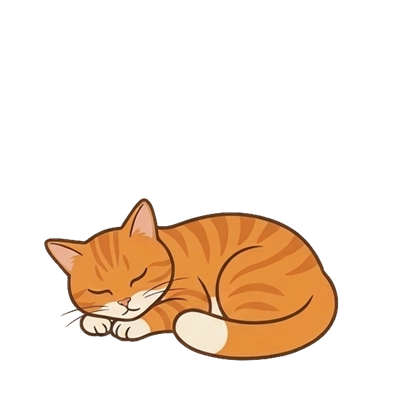
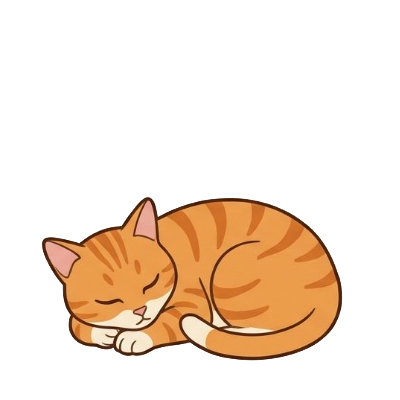
feat(pet): refresh v2 frozen masters from pure text-to-image sheet
Replacing the earlier v2 masters with a fresh 2x2 sheet generated purely
from text prompts removes legacy v1 anatomy drift, gives all four poses
a natural domestic-cat silhouette with compact slim white-tipped tails,
neat short white paws, and no whisker clutter, and exports cleanly at
1.00x scale without resampling blur.

Changed region(s): [[0.09, 0.48, 0.87, 0.9]]

diff --git a/docs/pet-video-prompts.md b/docs/pet-video-prompts.md
@@ -11,20 +11,46 @@
 | 资产 | 路径 | 规格与对齐 | 用途 |
 | --- | --- | --- | --- |
 | 角色风格母版 | `docs/images/pet/v2-masters/style-sheet.png` | 脸部特写 + 3/4 站姿标尺 + Hex 色板 + 描边线宽样本 + 四母姿同尺排布 | 角色身份、配色、线宽唯一依据 |
-| 四母姿同画布原图 | `docs/images/pet/v2-masters/raw/master-4poses-sheet-raw.png` | `1024×1024` 单画布 `2×2` 同批联合生成原图（暖米白纯底 `#F4EFE9`） | 4 张母姿的唯一源画布，确保头身比、线宽与尾巴完全同尺同源 |
-| 母姿 B：趴姿 | `docs/images/pet/v2-masters/master-lying.png` | `400×400` 8-bit RGBA · `anchor: { x: 200, y: 360 }` · `scale=0.720`（`332×173`） | `lying-idle` / `blink` / `react` 底图；`stretch` 首帧、`wake` 末帧、`sleep-in` 首帧 |
-| 母姿 A：站姿 | `docs/images/pet/v2-masters/master-standing.png` | `400×400` 8-bit RGBA · `anchor: { x: 200, y: 360 }` · `scale=0.720`（`326×250`） | 静止四足站立（前后双腿各自并拢，非迈腿态）；`stretch` 末帧、`walk` 首帧、`jump` 起止基准 |
-| 母姿 C：熟睡 | `docs/images/pet/v2-masters/master-sleeping.png` | `400×400` 8-bit RGBA · `anchor: { x: 200, y: 360 }` · `scale=0.720`（`294×162`） | `sleep` 底图；`sleep-in` 末帧、`wake` 首帧 |
-| 独立态：拎起 | `docs/images/pet/v2-masters/master-drag.png` | `400×400` 8-bit RGBA · `anchor: { x: 200, y: 360 }` · `scale=0.720`（`294×253`） | `drag` 循环底图 |
-| 单态切片原图 | `docs/images/pet/v2-masters/raw/master-{lying,standing,sleeping,drag}-raw.png` | 从同画布原图无损切分的 `600×600` 纯底单姿原图 | L1/L2/L3 模型输入原图（导出统一乘 `0.720`） |
+| 四母姿同画布原图 | `docs/images/pet/v2-masters/raw/master-4poses-sheet-raw.png` | `1024×571` 单画布 `2×2` 纯文生图联合生成原图（暖米白纯底 `#F3ECE2`，无旧图约束） | 4 张母姿的唯一源画布，确保头身比、线宽与短巧白尖尾完全同尺同源 |
+| 母姿 B：趴姿 | `docs/images/pet/v2-masters/master-lying.png` | `400×400` 8-bit RGBA · `anchor: { x: 200, y: 360 }` · `scale=1.000`（`326×202`） | `lying-idle` / `blink` / `react` 底图；`stretch` 首帧、`wake` 末帧、`sleep-in` 首帧 |
+| 母姿 A：站姿 | `docs/images/pet/v2-masters/master-standing.png` | `400×400` 8-bit RGBA · `anchor: { x: 200, y: 360 }` · `scale=1.000`（`338×264`） | 静止四足站立（前后双腿各自并拢，非迈腿态）；`stretch` 末帧、`walk` 首帧、`jump` 起止基准 |
+| 母姿 C：熟睡 | `docs/images/pet/v2-masters/master-sleeping.png` | `400×400` 8-bit RGBA · `anchor: { x: 200, y: 360 }` · `scale=1.000`（`301×164`） | `sleep` 底图；`sleep-in` 末帧、`wake` 首帧 |
+| 独立态：拎起 | `docs/images/pet/v2-masters/master-drag.png` | `400×400` 8-bit RGBA · `anchor: { x: 200, y: 360 }` · `scale=1.000`（`328×251`） | `drag` 循环底图 |
+| 单态切片原图 | `docs/images/pet/v2-masters/raw/master-{lying,standing,sleeping,drag}-raw.png` | 去背归一化至 `#F4EFE9` 纯底的 `600×600` 单姿原图（与 `400×400` 严格 `1.5×` 对应，`anchor: 300,540`） | L1/L2/L3 模型输入原图（导出统一乘 `2/3 ≈ 0.667`） |
 | 审片图 | `docs/images/pet/v2-masters/onion-skin-masters.png`、`preview-light-dark-200dip.png` | `tools/verify-pet-pack.ps1` 渲染输出 | 四母姿洋葱皮重叠校验 + 浅/深色 200 DIP 边缘校验 |
 
 **冻结色板与物理标尺**：
-- 轮廓深棕 `#5C3B22`（圆角连接；`400×400` 导出 **`~3.0 px`** → `200 DIP` 运行时 `~1.5 px`）；主毛暖橘 `#F19C45`；虎斑深橘 `#DF8232`（用于额头/背部/四肢，**不单独描边**）；奶油白 `#F8EDD9`（口鼻/胸腹/白爪/饱满圆白尖尾）；耳廓粉 `#F3BDA0`；粉鼻 `#E28C7A`；琥珀虹膜 `#D88A28`（竖瞳 `#3A2210` + 白色高光）；参考画布底色 `#F4EFE9`（仅生成用，运行时透明）。
-- **物理标尺（`400×400` 实测自 `master-standing.png`）**：头宽 **`98 px`**、躯干长（胸前至臀后不含尾）**`~225 px`**（全长含头约 3.3 头身）、肩背高（距地面线 `y=360`）**`180 px`**。四张母姿来自同一张 `2×2` 联合生成原图，导出统一使用**单一缩放系数 `0.720`**（`maxY = 359–360`，底边留 `40 px` 余量；质心 `x = 199.6–200.5`；`foot_dy = 0 px`）。不同姿势的躯干伸展度与尾巴透视长度随姿态自然变化，**不强制拉齐外接框尺寸**，也**禁止**按含尾巴包围盒单独缩放单帧。
-- **尾巴一致性标准（v2 冻结）**：采用**干净饱满的纯暖橘（`#F19C45`）毛绒尾 + 饱满圆润奶油白尖（`#F8EDD9`）**，**彻底去掉尾巴上“一圈一圈”的高对比深色环纹**；既根治跨蜷曲/站立/拎起姿态的数圈与粗细漂移，也避免 Phase 3 I2V 视频生成出现尾纹闪烁。视觉长短随姿势自然透视，不强行统一成单一像素长度。
+- 轮廓深棕 `#552A0E`（圆角连接；`400×400` 导出 **`3.0 px`** → `200 DIP` 运行时 `~1.5 px`）；主毛暖橘 `#EA9B4D`；虎斑深橘 `#CF732C`（仅额头/背部/体侧/四肢，**不单独描边**）；奶油白 `#F8E8CE`（口鼻/胸腹/利落短白爪/小巧白尖尾）；耳廓粉 `#E9A896`；粉鼻 `#D2937D`；琥珀虹膜 `#D88A28`（竖瞳 `#3A2210` + 白色高光）；参考画布底色 `#F4EFE9`（仅生成用，运行时透明）。**不画细胡须**，避免 `200 DIP` / `160 DIP` 桌面窗下糊成噪点或在 I2V 中闪烁。
+- **物理标尺（`400×400` 实测自 `master-standing.png`）**：头宽 **`~98 px`**、躯干长（胸前至臀后不含尾）**`~235 px`**（自然 3–3.5 头身）、肩背高（距地面线 `y=360`）**`~195 px`**（含耳总高 `264 px`）。四张母姿来自同一张 `2×2` 纯文生图联合生成原图，导出统一使用**单一缩放系数 `1.000`**（零重采样模糊，`maxY = 360`，底边留 `40 px` 余量；质心 `x = 199.95–200.45`；`foot_dy = 0 px`）。不同姿势的躯干伸展度与尾巴透视长度随姿态自然变化，**不强制拉齐外接框尺寸**，也**禁止**按含尾巴包围盒单独缩放单帧。
+- **尾巴一致性标准（v2 冻结）**：采用**短巧纤细的纯暖橘（`#EA9B4D`）利落尾 + 小巧奶油白尖（`#F8E8CE`）**（约躯干一半长、明显细于后腿、不蓬松臃肿），**彻底去掉尾巴上“一圈一圈”的高对比深色环纹**；既保证 `200 DIP` / `160 DIP` 下头身始终是清晰饱满的视觉主体，也根治跨姿势环纹漂移与 Phase 3 I2V 尾纹闪烁。
 
-### 2. L1 局部编辑模板（`lying-idle` / `blink` / `sleep` / `react` / `drag`）
+### 2. 纯文生图 2×2 四母姿生成模板（零参考图，母版复现/新角色复用）
+
+- **适用场景**：摆脱旧资产束缚，从零一次同画布联合生成 4 张同尺同源基准母姿（Text-to-Image，不上传旧图）。
+
+```text
+A clean 2x2 character pose sheet of the exact same original orange tabby cat in four distinct poses, arranged evenly in four quadrants with generous blank margins between them on a completely uniform solid warm off-white background (#F4EFE9). No grid lines, no dividing borders, no frames, no text, no labels, no numbers, no ground shadows, no floor lines, no props, no watermarks.
+
+CHARACTER DESIGN & PROPORTIONS (STRICTLY IDENTICAL ACROSS ALL 4 POSES):
+- Natural realistic feline proportions (about 3 to 3.5 head-lengths long) with a comfortably substantial, softly rounded domestic cat build so the body and head feel full and well-proportioned; NOT skinny, NOT chibi, NOT big-headed, NOT geometric logo style.
+- Warm orange primary fur (#EA9B4D) with darker orange tabby stripes (#CF732C) on the forehead, back, flanks, and legs ONLY. Stripes and white markings have NO outlines of their own — they sit cleanly inside the outer silhouette.
+- Cream-white (#F8E8CE) muzzle, chin, chest, belly, and four neat short white paws. Soft pink inner ears (#E9A896) and small pink nose (#D2937D).
+- Expressive almond-shaped half-lidded eyes with visible upper eyelids, warm amber irises (#D88A28), vertical dark-brown pupils (#3A2210), and a crisp tiny white highlight; calm, slightly aloof and cozy expression (no dot eyes, no uncanny front stare, no exaggerated human smile, no whiskers).
+- TAIL RULE (IMPORTANT — COMPACT & SLIM): A noticeably shorter, sleeker, modest-sized solid warm-orange tail (#EA9B4D) with a small, neat cream-white tip (#F8E8CE). Keep the tail relatively short (about half the torso length) and slender — clearly slimmer than the hind leg, NOT bushy, NOT puffy, NOT thick, and NOT oversized so it never dwarfs the cat's body. Absolutely NO dark stacked rings or bands on the tail.
+
+ART STYLE & LINEWORK (STRICTLY IDENTICAL ACROSS ALL 4 POSES):
+- Clean 2D flat hand-drawn illustration style.
+- Bold, smooth, uniform dark-brown outer outline (#552A0E) with rounded joins and consistent stroke weight across all four poses.
+- Flat cel color fills with minimal soft flat shading only; zero fur strands, zero painterly gradients, zero 3D rendering, zero photorealistic lighting, zero texture noise.
+
+THE 4 POSES (ALL FACING LEFT IN 3/4 SIDE VIEW, SAME SCALE, FULL BODY & TAIL NEVER CROPPED):
+1. Top-left (Lying idle pose): The cat is lying comfortably on its belly facing left in 3/4 view, head gently raised looking calmly to the left with half-lidded almond amber eyes, both front white paws resting neatly forward on the ground, hind legs tucked, its short slim solid-orange white-tipped tail tucked neatly and compactly close against its hip on the ground.
+2. Top-right (Neutral standing pose): The cat is standing completely still on all four white paws facing left in 3/4 side view. IMPORTANT: both front legs are planted together naturally and both hind legs are planted together naturally in a relaxed stationary stance — NOT walking, NOT mid-stride, NOT lifting a paw. Head upright looking left with half-lidded almond amber eyes; its short slim solid-orange white-tipped tail hangs compactly behind the body with only a small gentle curve at the neat white tip.
+3. Bottom-left (Curled sleeping pose): The cat is curled snugly into a cozy sleeping ball facing left in 3/4 view, head resting gently down on its tucked front white paws, both eyes smoothly closed into gentle dark-brown curved lines, ears softly relaxed, its short slim solid-orange white-tipped tail tucked closely and neatly beside the body without bulging outward. No "Zzz" symbols.
+4. Bottom-right (Gently lifted / dangling pose): The cat is suspended mid-air as if gently lifted under the upper back/shoulders by an invisible hand (DO NOT draw any human hand, arm, harness, or collar). Back gently arched, torso slightly elongated, all four legs and white paws dangling loosely downward, its short slim solid-orange white-tipped tail hanging neatly and compactly downward; calm, mildly unbothered half-lidded expression (no fear, no pain, no struggling).
+```
+
+### 3. L1 局部编辑模板（`lying-idle` / `blink` / `sleep` / `react` / `drag`）
 
 - **适用状态**：`lying-idle`、`blink`、`sleep`、`react`、`drag`（幅度小、躯干与外轮廓必须保持静态零偏移）。
 - **输入**：对应冻结母姿的切片原图（`docs/images/pet/v2-masters/raw/master-{lying,standing,sleeping,drag}-raw.png`，`600×600` 纯 `#F4EFE9` 底）。
@@ -34,33 +60,33 @@
 Edit ONLY the specified local region of the provided 2D flat hand-drawn illustration of the orange tabby cat.
 
 STRICT LOCKS (DO NOT CHANGE):
-- Keep the exact same character identity, 3-3.5 head body proportions, body silhouette, torso position, head size, camera framing, bold uniform dark-brown outline (#5C3B22), flat color palette (#F19C45 orange fur, #DF8232 un-outlined tabby stripes on forehead/back/legs only, plush solid warm-orange tail #F19C45 with NO dark stacked rings and a plump rounded cream-white tip #F8EDD9, #F8EDD9 white muzzle/chest/belly/paws, #E28C7A pink nose, #D88A28 amber iris), and plain solid uniform warm off-white background (#F4EFE9).
+- Keep the exact same character identity, 3-3.5 head body proportions, body silhouette, torso position, head size, camera framing, bold uniform dark-brown outline (#552A0E), flat color palette (#EA9B4D orange fur, #CF732C un-outlined tabby stripes on forehead/back/legs only, short slim solid warm-orange tail #EA9B4D with NO dark stacked rings and a small neat cream-white tip #F8E8CE, #F8E8CE white muzzle/chest/belly and neat short white paws, #D2937D pink nose, #D88A28 amber iris, no whiskers), and plain solid uniform warm off-white background (#F4EFE9).
 - Do NOT shift, scale, rotate, or redraw the unedited body, paws, or outer contour.
-- Do NOT add fur strands, gradients, 3D shading, ground shadows, props, text, or watermarks.
+- Do NOT add whiskers, fur strands, gradients, 3D shading, ground shadows, props, text, or watermarks.
 
 LOCAL EDIT ONLY:
 <REPLACE_WITH_STATE_EDIT:
-  - blink-half: lower the upper eyelids halfway over the amber irises while keeping head, ears, whiskers, and body 100% identical.
-  - blink-closed: close both eyes smoothly into gentle dark-brown curved lines while keeping head, ears, whiskers, and body 100% identical.
-  - lying-idle-01: gently sway ONLY the cream-tipped tail tip slightly upward/outward by ~15 px and add a subtle 4 px chest rise from breathing; keep head, face, front paws, and ground line 100% locked.
-  - sleep-01: add a subtle 5 px slow-breathing rise on the back contour only; keep folded ears, closed eyes, paws, and curled tail 100% locked.
+  - blink-half: lower the upper eyelids halfway over the amber irises while keeping head, ears, and body 100% identical.
+  - blink-closed: close both eyes smoothly into gentle dark-brown curved lines while keeping head, ears, and body 100% identical.
+  - lying-idle-01: gently sway ONLY the short cream-tipped tail tip slightly upward/outward by ~12 px and add a subtle 4 px chest rise from breathing; keep head, face, front paws, and ground line 100% locked.
+  - sleep-01: add a subtle 5 px slow-breathing rise on the back contour only; keep folded ears, closed eyes, paws, and tucked tail 100% locked.
   - react-01: perk both ears slightly more upright and widen the almond amber eyes slightly in mild surprise; keep torso and paws 100% locked.
-  - drag-01: sway ONLY the dangling hind paws and hanging cream-tipped tail slightly to the right by ~12 px; keep head, shoulders, and torso 100% locked.
+  - drag-01: sway ONLY the dangling hind paws and hanging short cream-tipped tail slightly to the right by ~10 px; keep head, shoulders, and torso 100% locked.
 >
 ```
 
-### 3. L2 首尾帧过渡 I2V 模板（`stretch` / `sleep-in` / `wake` / `jump`）
+### 4. L2 首尾帧过渡 I2V 模板（`stretch` / `sleep-in` / `wake` / `jump`）
 
 - **适用状态**：`stretch`（`master-lying` → `master-standing`）、`sleep-in`（`master-lying` → `master-sleeping`）、`wake`（`master-sleeping` → `master-lying`）、`jump`（`master-standing` → 垂直轻跳 → `master-standing`）。
 - **生成参数**：Image-to-Video（First + Last Frame Lock），1:1（`768×768` 或 `1024×1024`），`24 fps`，`2–3 s`，非循环。
-- **抽帧与后处理硬门**：均匀抽取 **6–8 帧**（运行时 `10–12 fps`，即 `83–100 ms/帧`）；整段使用**单一缩放系数**与**统一抠像去边（defringe 至 `#5C3B22`）**对齐至 `anchor: { x: 200, y: 360 }`；过 `tools/verify-pet-pack.ps1` 连续性硬门（相邻帧质心突跳 `<= 6 px`、包围盒缩放变化 `<= 5%`）。
+- **抽帧与后处理硬门**：均匀抽取 **6–8 帧**（运行时 `10–12 fps`，即 `83–100 ms/帧`）；整段使用**单一缩放系数**与**统一抠像去边（defringe 至 `#552A0E`）**对齐至 `anchor: { x: 200, y: 360 }`；过 `tools/verify-pet-pack.ps1` 连续性硬门（相邻帧质心突跳 `<= 6 px`、包围盒缩放变化 `<= 5%`）。
 
 ```text
 Animate a smooth, natural 2D hand-drawn frame-by-frame transition between the locked start frame and the locked end frame of this exact orange tabby cat.
 
 STRICT STYLE & CAMERA LOCKS:
-- Preserve the exact same character design, 3-3.5 head body proportions, almond half-lidded amber eyes, pink nose, white muzzle/chest/belly/paws, plush solid warm-orange tail (#F19C45, NO dark stacked rings on the tail) with a plump rounded cream-white tip (#F8EDD9), bold uniform dark-brown outline (#5C3B22), un-outlined tabby stripes (#DF8232) on forehead/back/legs only, and flat warm 2D illustration style.
-- Do NOT restyle, do not add 3D depth, fur texture, gradients, soft glow, or photorealism.
+- Preserve the exact same character design, 3-3.5 head body proportions, almond half-lidded amber eyes, pink nose, white muzzle/chest/belly and neat short white paws, no whiskers, short slim solid warm-orange tail (#EA9B4D, NO dark stacked rings on the tail) with a small neat cream-white tip (#F8E8CE), bold uniform dark-brown outline (#552A0E), un-outlined tabby stripes (#CF732C) on forehead/back/legs only, and flat warm 2D illustration style.
+- Do NOT restyle, do not add whiskers, 3D depth, fur texture, gradients, soft glow, or photorealism.
 - Locked static camera: zero zoom, zero pan, zero tilt, zero camera shake.
 - Plain solid uniform warm off-white background (#F4EFE9) throughout every frame.
 - No ground shadow, no floor line, no props, no motion lines, no text, no watermark, no extra cats.
@@ -74,10 +100,10 @@ MOTION (IN PLACE, NO HORIZONTAL DRIFT):
 >
 ```
 
-### 4. L3 固定机位走路 I2V 模板（`walk`）
+### 5. L3 固定机位走路 I2V 模板（`walk`）
 
 - **适用状态**：`walk`（全身连续循环；只需面向左侧的单向循环，向右由运行时水平镜像）。
-- **输入**：首帧锁定 `docs/images/pet/v2-masters/raw/master-standing-raw.png`（静止四足站姿，确保起手比例与白尖尾 100% 对齐），步态节奏参考 `docs/images/pet/references/walk-reference.gif`。
+- **输入**：首帧锁定 `docs/images/pet/v2-masters/raw/master-standing-raw.png`（静止四足站姿，确保起手比例与短巧白尖尾 100% 对齐），步态节奏参考 `docs/images/pet/references/walk-reference.gif`。
 - **生成参数**：Reference / Image-to-Video，固定机位，`3–5 s`，`24 fps`，纯 `#F4EFE9` 底。
 - **抽帧与后处理硬门**：选取 1 个完整左右交替步态周期，抽取 **16–20 帧**（运行时 `18–24 fps`，即 `42–56 ms/帧`，按页面移速 `~103 DIP/s` 匹配步幅不滑步）；整段采用**单一裁切与单一缩放系数**，统一去边对齐至 `anchor: { x: 200, y: 360 }`；通过 `tools/verify-pet-pack.ps1` 连续性硬门（相邻帧质心突跳 `<= 6 px`、包围盒缩放变化 `<= 5%`）。
 
@@ -85,13 +111,13 @@ MOTION (IN PLACE, NO HORIZONTAL DRIFT):
 Animate the provided 2D flat hand-drawn illustration of the orange tabby cat (starting from the locked neutral standing pose) into a smooth, seamless in-place walk cycle facing left.
 
 STRICT STYLE & CAMERA LOCKS:
-- Keep the exact same character identity, 3-3.5 head body proportions, face, almond half-lidded amber eyes, pink nose, white muzzle/chest/belly/paws, plush solid warm-orange tail (#F19C45, NO dark stacked rings on the tail) with a plump rounded cream-white tip (#F8EDD9), bold uniform dark-brown outline (#5C3B22), un-outlined tabby stripes (#DF8232) on forehead/back/legs only, and flat warm 2D illustration style.
-- Do NOT restyle, do not make it 3D, do not add fur strands, gradients, shading flicker, or photorealism.
+- Keep the exact same character identity, 3-3.5 head body proportions, face, almond half-lidded amber eyes, pink nose, white muzzle/chest/belly and neat short white paws, no whiskers, short slim solid warm-orange tail (#EA9B4D, NO dark stacked rings on the tail) with a small neat cream-white tip (#F8E8CE), bold uniform dark-brown outline (#552A0E), un-outlined tabby stripes (#CF732C) on forehead/back/legs only, and flat warm 2D illustration style.
+- Do NOT restyle, do not make it 3D, do not add whiskers, fur strands, gradients, shading flicker, or photorealism.
 - Locked static camera: zero zoom, zero pan, zero tilt; plain solid uniform warm off-white background (#F4EFE9).
 - Full body visible in left-facing 3/4 side view, all four white paws clearly visible and never cropped.
 
 WALK CYCLE MOTION (TREADMILL IN PLACE):
-- The cat walks smoothly in place to the left as if on an invisible treadmill, matching a natural four-beat feline walk gait: front legs alternate cleanly (left forward, then right forward), hind legs alternate naturally with slight shoulder/hip sway, and the cream-tipped tail sways gently and relaxed behind the body without touching the ground line.
+- The cat walks smoothly in place to the left as if on an invisible treadmill, matching a natural four-beat feline walk gait: front legs alternate cleanly (left forward, then right forward), hind legs alternate naturally with slight shoulder/hip sway, and the short slim cream-tipped tail sways gently and relaxed behind the body without touching the ground line.
 - Keep the cat at the exact same scale, horizontal center, and vertical ground plane across every frame; zero forward translation, zero vertical drift, zero sliding paws.
 - Smooth seamless loop. No ground shadow, no floor line, no props, no motion lines, no text, no watermark, no extra cats.
 ```
